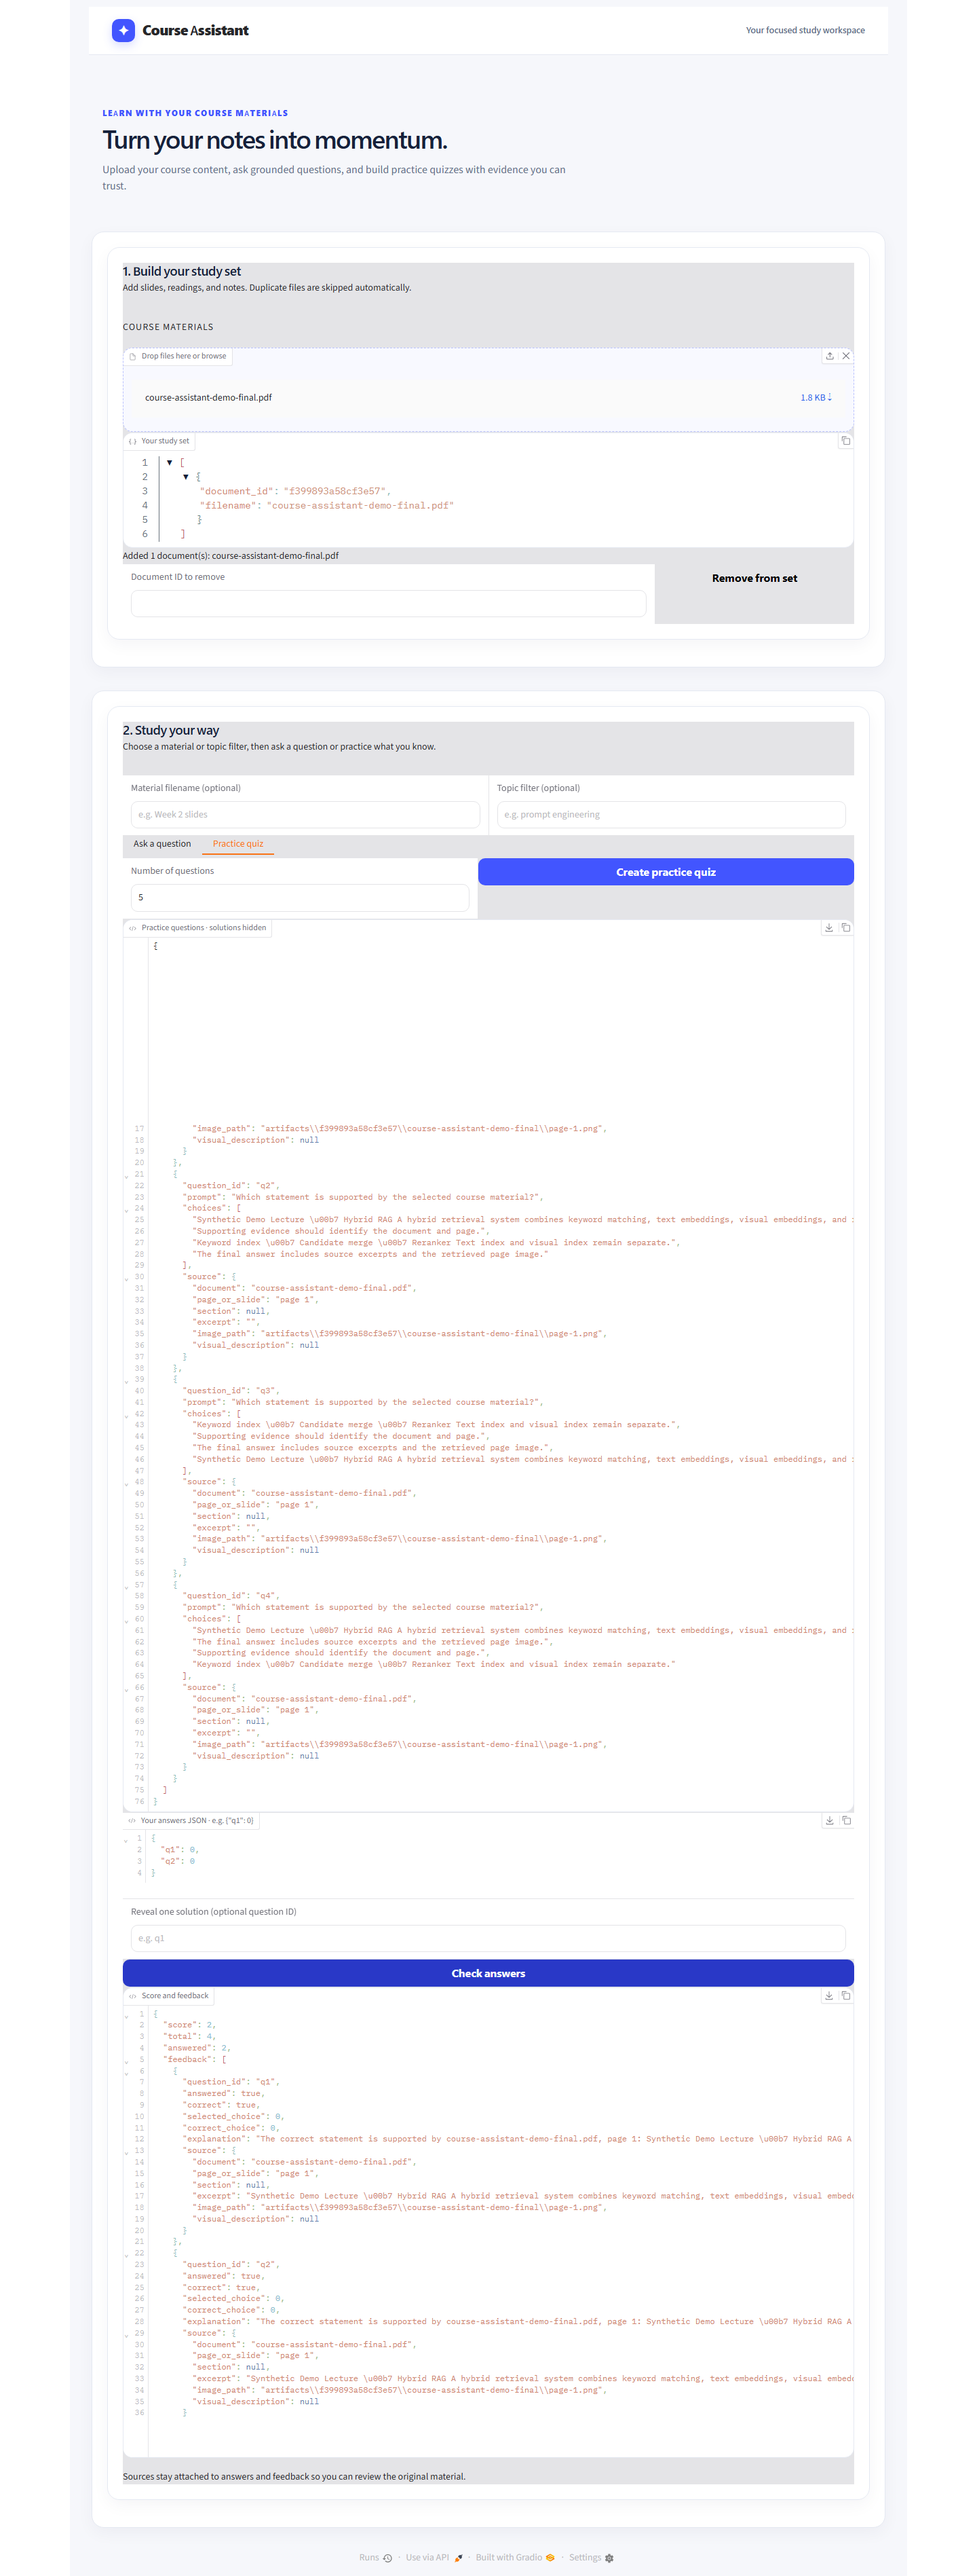
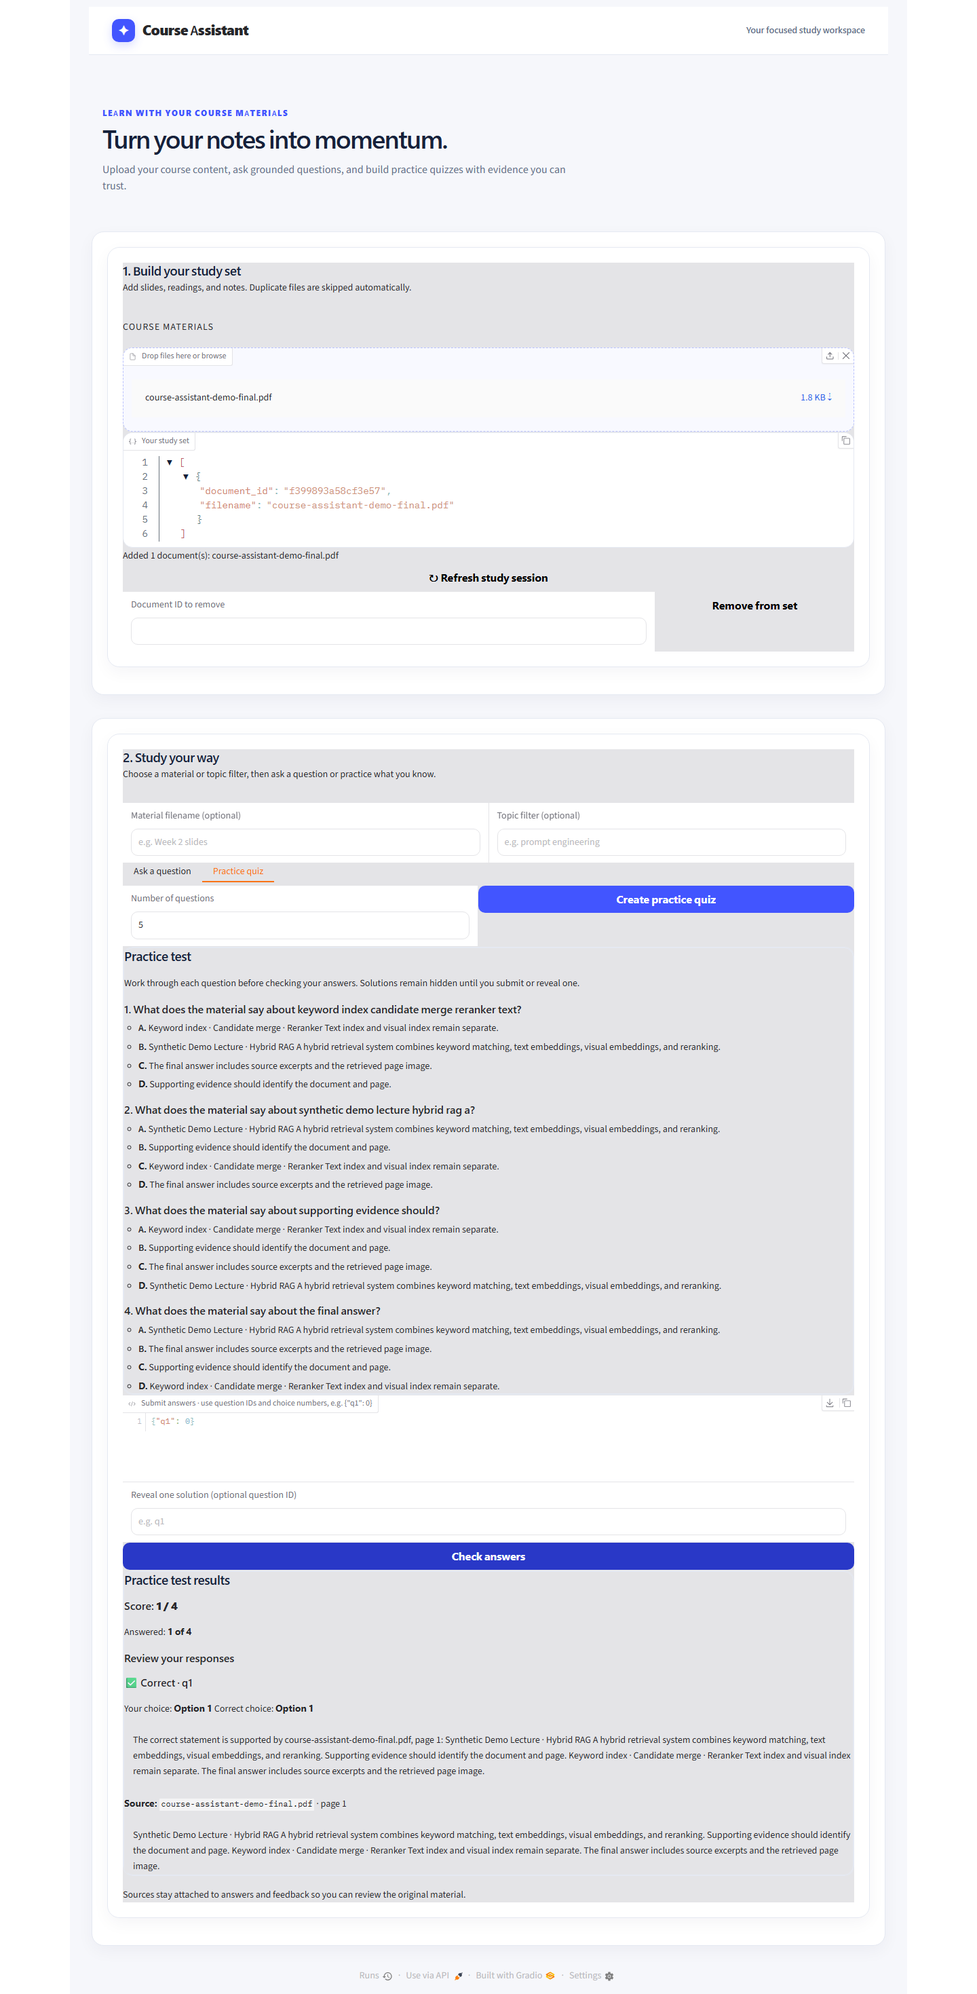
docs: refresh hybrid-rag screenshots

diff --git a/README.md b/README.md
@@ -139,7 +139,7 @@ The assignment question set, comparison protocol, saved results, and investigate
 
 ## Screenshots
 
-These screenshots were refreshed from the redesigned live `main` application at commit `9e144f7` using a clearly labeled synthetic, non-course demo PDF. They demonstrate the Quizlet-inspired study workspace, grounded answer flow, retrieved visual evidence, and practice-quiz interface without redistributing restricted Canvas content. Replace them with permitted course-material captures before submission if the team has approval.
+These screenshots were refreshed from the current hybrid-RAG `main` application at commit `4587e42` using a clearly labeled synthetic, non-course demo PDF. They demonstrate the Quizlet-inspired study workspace, grounded answer flow, retrieved visual evidence, clean practice-test questions, and readable feedback without redistributing restricted Canvas content. Replace them with permitted course-material captures before submission if the team has approval.
 
 ### Answer with retrieved slide
 
